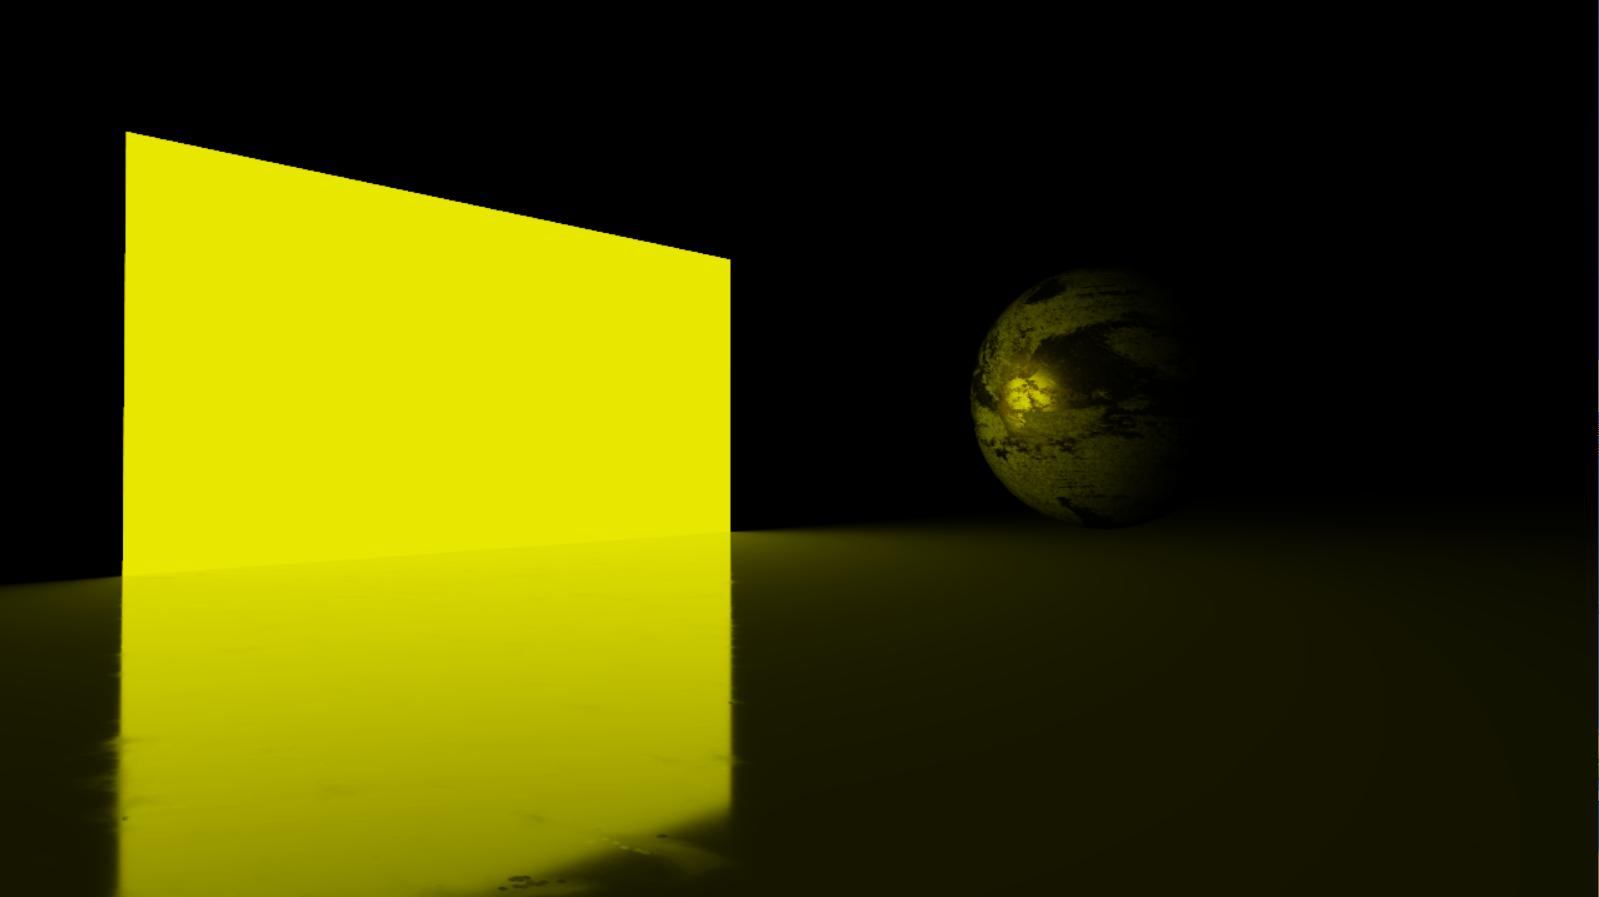
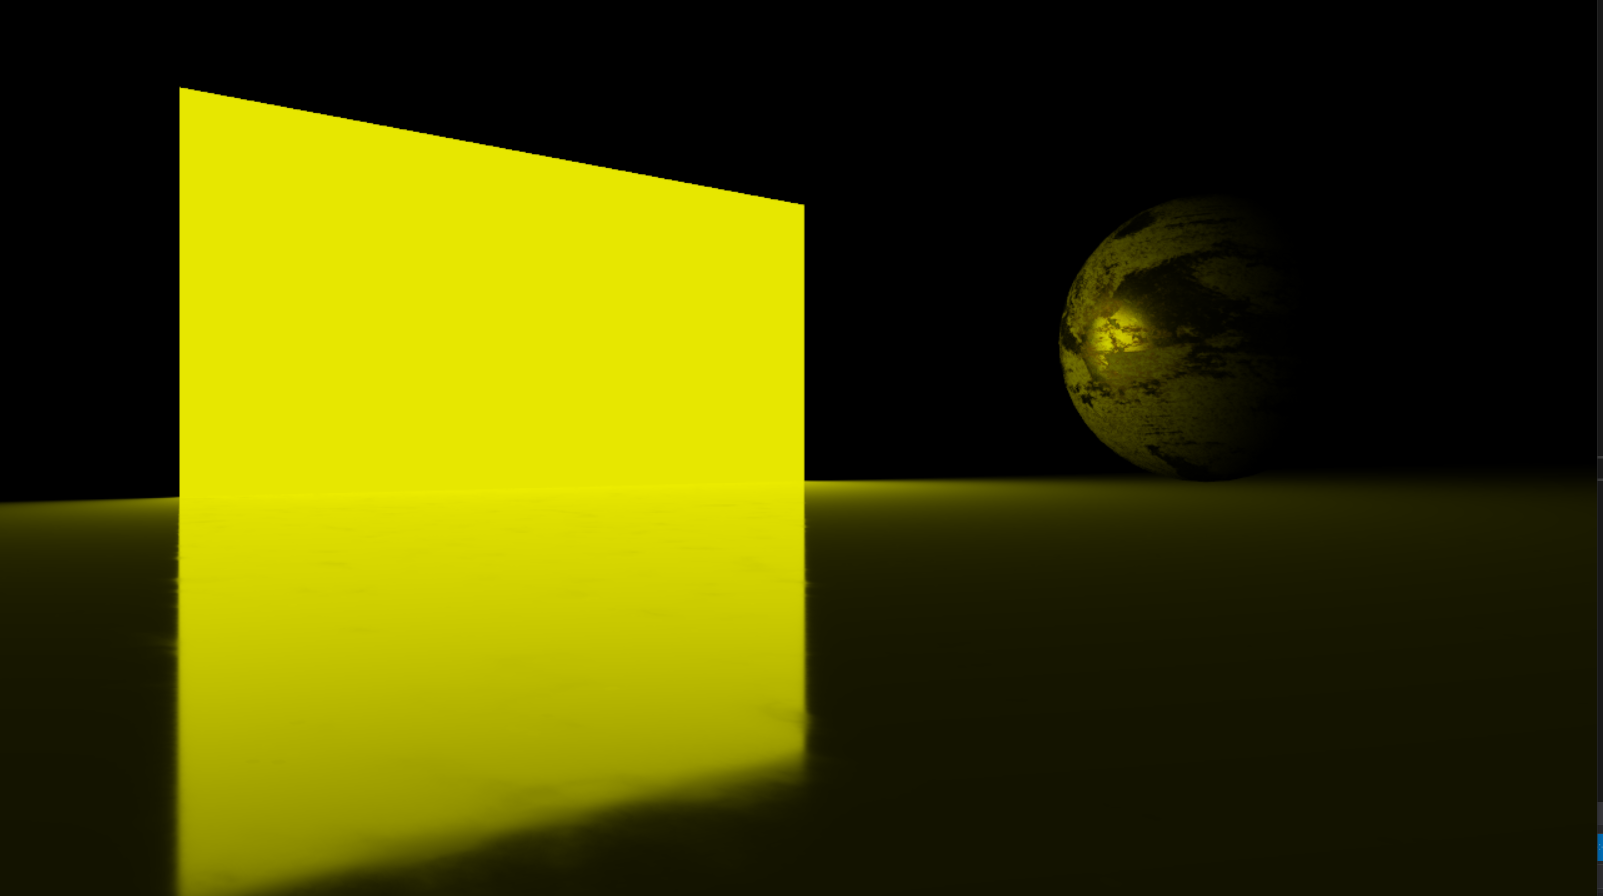
update AreaLight

Changed region(s): [[0.0, 0.0, 1.0, 1.0]]

diff --git a/Samples/Sample-LightAndShadow/Source/Sample-LightAndShadow.cpp b/Samples/Sample-LightAndShadow/Source/Sample-LightAndShadow.cpp
@@ -236,7 +236,8 @@ public:
 		// Add Camera
 		auto Camera = AddActor<TCameraActor>("Camera");
 		CameraComponent = Camera->GetCameraComponent();
-		CameraComponent->SetWorldLocation(TVector3(0.0f, 0.0f, -4.0f));
+		CameraComponent->SetWorldLocation(TVector3(0.45f, 0.12f, -2.0f));
+		CameraComponent->RotateY(40.0f);
 		CameraComponent->UpdateViewMatrix();
 
 		// Add Floor
